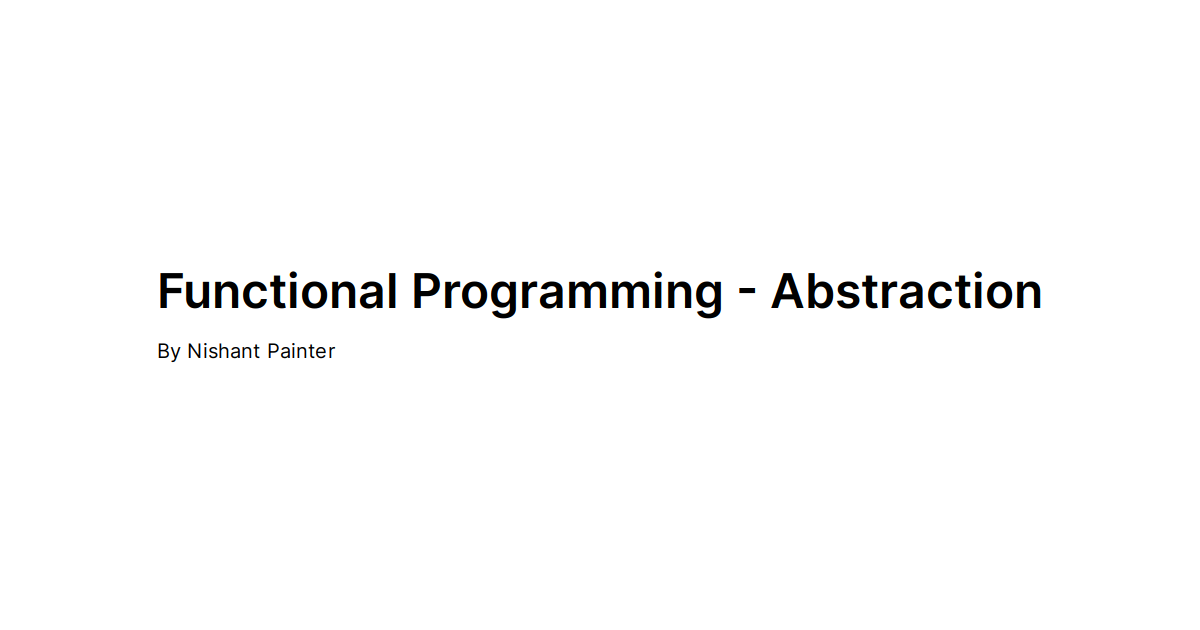
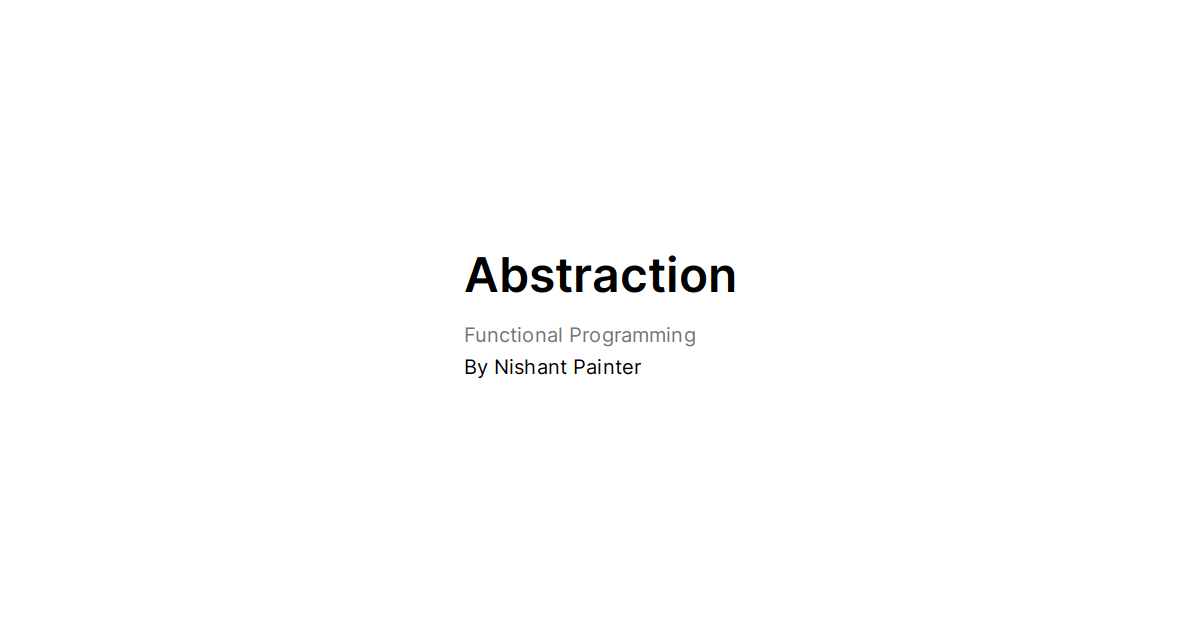
Add og subtitle

Changed region(s): [[0.1233, 0.3921, 0.8942, 0.5429], [0.37, 0.573, 0.555, 0.6032], [0.1233, 0.5429, 0.2775, 0.573]]

diff --git a/lib/og-generator/index.ts b/lib/og-generator/index.ts
@@ -9,9 +9,10 @@ const template = path.join(root, "lib", "og-generator", "template.ejs");
 export default async function generate(items: any[]) {
   await generator({
     html: fs.readFileSync(template, "utf-8"),
-    content: items.map(({ slug, title }) => ({
-      title,
-      subtitle: "By Nishant Painter",
+    content: items.map(({ slug, title, ogtitle, ogsubtitle }) => ({
+      title: ogtitle || title,
+      subtitle: ogsubtitle,
+      author: "By Nishant Painter",
       output: path.join(outputdir, `${slug}.png`),
     })),
   });

diff --git a/app/blogs/[slug]/page.tsx b/app/blogs/[slug]/page.tsx
@@ -27,7 +27,7 @@ async function generateOGImages(blogs: any) {
 }
 
 export async function generateStaticParams() {
-  const blogs = getAllBlogs(["slug", "title"]);
+  const blogs = getAllBlogs(["slug", "title", "ogtitle", "ogsubtitle"]);
   await generateOGImages(blogs);
   return blogs.map((blog: any) => ({
     slug: blog.slug,

diff --git a/_blogs/programming-paradigms-imperative-and-declarative-programming.md b/_blogs/programming-paradigms-imperative-and-declarative-programming.md
@@ -1,5 +1,7 @@
 ---
 title: Programming Paradigms - Imperative and Declarative Programming
+ogtitle: Imperative and Declarative Programming
+ogsubtitle: Programming Paradigms
 date: 10-07-2020
 ---
 

diff --git a/_blogs/programming-paradigms-what-are-programming-paradigms.md b/_blogs/programming-paradigms-what-are-programming-paradigms.md
@@ -1,5 +1,7 @@
 ---
 title: Programming Paradigms - What are Programming Paradigms ?
+ogtitle: What are Programming Paradigms ?
+ogsubtitle: Programming Paradigms
 date: 05-07-2020
 ---
 

diff --git a/_blogs/programming-paradigms-object-oriented-programming.md b/_blogs/programming-paradigms-object-oriented-programming.md
@@ -1,5 +1,7 @@
 ---
 title: Programming Paradigms - Object Oriented Programming
+ogtitle: Object Oriented Programming
+ogsubtitle: Programming Paradigms
 date: 22-10-2020
 ---
 

diff --git a/_blogs/functional-programming-referential-transparency.md b/_blogs/functional-programming-referential-transparency.md
@@ -1,5 +1,7 @@
 ---
 title: Functional Programming - Referential Transparency
+ogtitle: Referential Transparency
+ogsubtitle: Functional Programming
 date: 05-03-2021
 ---
 

diff --git a/_blogs/design-patterns-how-to-write-a-design-pattern.md b/_blogs/design-patterns-how-to-write-a-design-pattern.md
@@ -1,5 +1,7 @@
 ---
 title: Design Patterns - How to write a design pattern
+ogtitle: How to write a design pattern
+ogsubtitle: Design Patterns
 date: 21-09-2021
 ---
 

diff --git a/_blogs/functional-programming-tail-call-optimization.md b/_blogs/functional-programming-tail-call-optimization.md
@@ -1,5 +1,7 @@
 ---
 title: Functional Programming - Tail Call Optimization
+ogtitle: Tail Call Optimization
+ogsubtitle: Functional Programming
 date: 07-03-2021
 ---
 

diff --git a/_blogs/functional-programming-higher-order-function.md b/_blogs/functional-programming-higher-order-function.md
@@ -1,5 +1,7 @@
 ---
 title: Functional Programming - Higher Order Function
+ogtitle: Higher Order Function
+ogsubtitle: Functional Programming
 date: 08-03-2021
 ---
 

diff --git a/_blogs/programming-paradigms-functional-programming.md b/_blogs/programming-paradigms-functional-programming.md
@@ -1,5 +1,7 @@
 ---
 title: Programming Paradigms - Functional Programming
+ogtitle: Functional Programming
+ogsubtitle: Programming Paradigms
 date: 20-07-2020
 ---
 

diff --git a/_blogs/programming-paradigms-procedural-programming.md b/_blogs/programming-paradigms-procedural-programming.md
@@ -1,5 +1,7 @@
 ---
 title: Programming Paradigms - Procedural Programming
+ogtitle: Procedural Programming
+ogsubtitle: Programming Paradigms
 date: 16-08-2020
 ---
 

diff --git a/_blogs/programming-paradigms-structured-programming.md b/_blogs/programming-paradigms-structured-programming.md
@@ -1,5 +1,7 @@
 ---
 title: Programming Paradigms - Structured Programming
+ogtitle: Structured Programming
+ogsubtitle: Programming Paradigms
 date: 08-10-2020
 ---
 
